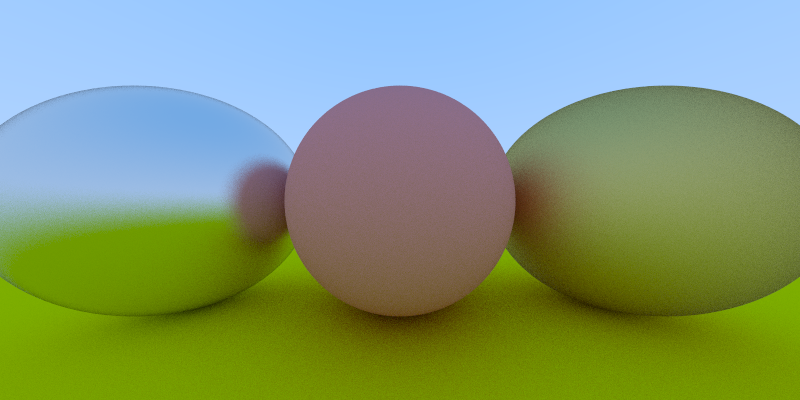
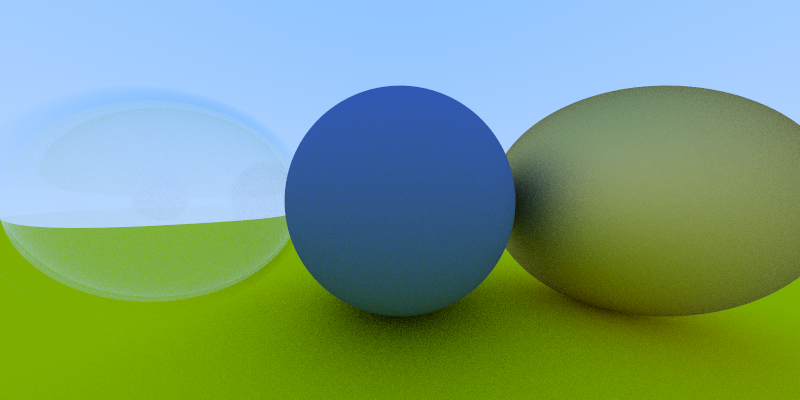
Ch.9 - Dielectrics and bugfixing in sphere try_hit

diff --git a/src/material/dielectric.rs b/src/material/dielectric.rs
@@ -1,0 +1,53 @@
+use vecmat::vec::*;
+use rand;
+
+use material::*;
+use utils;
+
+pub struct Dielectric {
+    pub refractive_index : f64,
+}
+
+impl Dielectric {
+    pub fn new(refractive_index: f64) -> Dielectric {
+        Dielectric {
+            refractive_index,
+        }
+    }
+}
+
+impl Material for Dielectric {
+    fn scatter_ray(&self, ray: &Ray, hit: &HitInfo) -> Option<ScatterResult> {
+        let outward_normal: Vec3<f64>;
+        let ni_over_nt: f64;
+        let cosine: f64;
+
+        if ray.dir.dot(hit.normal) > 0.0 {
+            outward_normal = -hit.normal;
+            ni_over_nt = self.refractive_index;
+            cosine = self.refractive_index * ray.dir.dot(hit.normal) / ray.dir.length();
+        } else {
+            outward_normal = hit.normal;
+            ni_over_nt = 1.0 / self.refractive_index;
+            cosine = -ray.dir.dot(hit.normal) / ray.dir.length();
+        }
+
+        let attenuation = Vec3::<f64>::from(1.0, 1.0, 1.0);
+        match utils::refract(&ray.dir, &outward_normal, ni_over_nt) {
+            Some(refracted) => {
+                if rand::random::<f64>() > utils::schlick(cosine, self.refractive_index) {
+                    return Some(ScatterResult {
+                        attenuation,
+                        ray: Ray::new(hit.position, refracted),
+                    });
+                }
+            }
+            None => {}
+        }
+
+        Some(ScatterResult {
+            attenuation,
+            ray: Ray::new(hit.position, utils::reflect(&ray.dir, &hit.normal)),
+        })
+    }
+}

diff --git a/src/main.rs b/src/main.rs
@@ -15,6 +15,7 @@ use camera::Camera;
 
 use material::lambert::Lambert;
 use material::metal::Metal;
+use material::dielectric::Dielectric;
 
 use vecmat::vec::*;
 use rand::Rng;
@@ -106,16 +107,18 @@ fn main() {
 
     let camera = Camera::new_default();
 
-    let lambert0 = Rc::new(Lambert::new(Vec3::<f64>::from(0.8, 0.3, 0.3)));
+    let lambert0 = Rc::new(Lambert::new(Vec3::<f64>::from(0.1, 0.2, 0.5)));
     let lambert1 = Rc::new(Lambert::new(Vec3::<f64>::from(0.8, 0.8, 0.0)));
     let metal0 = Rc::new(Metal::new(Vec3::<f64>::from(0.8, 0.6, 0.2), 1.0));
-    let metal1 = Rc::new(Metal::new(Vec3::<f64>::from(0.8, 0.8, 0.8), 0.3));
+    let _metal1 = Rc::new(Metal::new(Vec3::<f64>::from(0.8, 0.8, 0.8), 0.3));
+    let dielectric0 = Rc::new(Dielectric::new(1.5));
 
     let mut world = HitableList::new();
     world.list.push(Box::new(Sphere::new(Vec3::<f64>::from(0.0,0.0,-1.0), 0.5, lambert0.clone())));
     world.list.push(Box::new(Sphere::new(Vec3::<f64>::from(0.0,-100.5,-1.0), 100.0, lambert1.clone())));
     world.list.push(Box::new(Sphere::new(Vec3::<f64>::from(1.0,0.0,-1.0), 0.5, metal0.clone())));
-    world.list.push(Box::new(Sphere::new(Vec3::<f64>::from(-1.0,0.0,-1.0), 0.5, metal1.clone())));
+    world.list.push(Box::new(Sphere::new(Vec3::<f64>::from(-1.0,0.0,-1.0), 0.5, dielectric0.clone())));
+    world.list.push(Box::new(Sphere::new(Vec3::<f64>::from(-1.0,0.0,-1.0), -0.45, dielectric0.clone())));
 
     let mut rng = rand::thread_rng();
 

diff --git a/src/hitable/sphere.rs b/src/hitable/sphere.rs
@@ -26,12 +26,12 @@ impl Hitable for Sphere {
     fn try_hit(&self, ray: &Ray, t_min: f64, t_max: f64) -> Option<HitInfo> {
         let ray_to_center = ray.origin - self.center;
         let a = ray.dir.dot(ray.dir);
-        let b = 2.0 * ray.dir.dot(ray_to_center);
+        let b = ray.dir.dot(ray_to_center);
         let c = ray_to_center.dot(ray_to_center) - (self.radius * self.radius);
-        let discriminant = b * b - (4.0 * a * c);
+        let discriminant = b * b - a * c;
 
         if discriminant > 0.0 {
-            let near_solution = (-b - discriminant.sqrt()) / (2.0 * a);
+            let near_solution = (-b - discriminant.sqrt()) / a;
             if near_solution < t_max && near_solution > t_min {
                 let time = near_solution;
                 let position = ray.get_point_at_time(near_solution);
@@ -40,9 +40,9 @@ impl Hitable for Sphere {
                 return Some(HitInfo::new(time, position, normal, self.material.clone()));
             }
 
-            let far_solution = (-b + discriminant.sqrt()) / (2.0 * a);
+            let far_solution = (-b + discriminant.sqrt()) / a;
             if far_solution < t_max && far_solution > t_min {
-                let time = near_solution;
+                let time = far_solution;
                 let position = ray.get_point_at_time(far_solution);
                 let normal = (position - self.center) / self.radius;
 

diff --git a/src/utils/mod.rs b/src/utils/mod.rs
@@ -16,3 +16,21 @@ pub fn get_point_in_unit_sphere() -> Vec3<f64> {
 pub fn reflect(reflected_vec: &Vec3<f64>, normal: &Vec3<f64>) -> Vec3<f64> {
     *reflected_vec - 2.0 * reflected_vec.dot(*normal) * *normal
 }
+
+pub fn refract(refracted_vec: &Vec3<f64>, normal: &Vec3<f64>, ni_over_nt: f64) -> Option<Vec3<f64>> {
+    let refracted_dir = refracted_vec.normalize();
+    let refract_dot_normal = refracted_dir.dot(*normal);
+    let discriminant = 1.0 - ni_over_nt * ni_over_nt * (1.0 - refract_dot_normal * refract_dot_normal);
+    if discriminant > 0.0 {
+        return Some(ni_over_nt * (refracted_dir - (*normal * refract_dot_normal)) - *normal * discriminant.sqrt());
+    }
+
+    None
+}
+
+pub fn schlick(cos: f64, refractive_index: f64) -> f64 {
+    let r0 = (1.0 - refractive_index) / (1.0 + refractive_index);
+    let r0 = r0 * r0;
+
+    r0 + (1.0 - r0) * (1.0 - cos).powi(5)
+}

diff --git a/src/material/mod.rs b/src/material/mod.rs
@@ -5,6 +5,7 @@ use hitable::HitInfo;
 
 pub mod lambert;
 pub mod metal;
+pub mod dielectric;
 
 pub struct ScatterResult {
     pub attenuation: Vec3<f64>,
